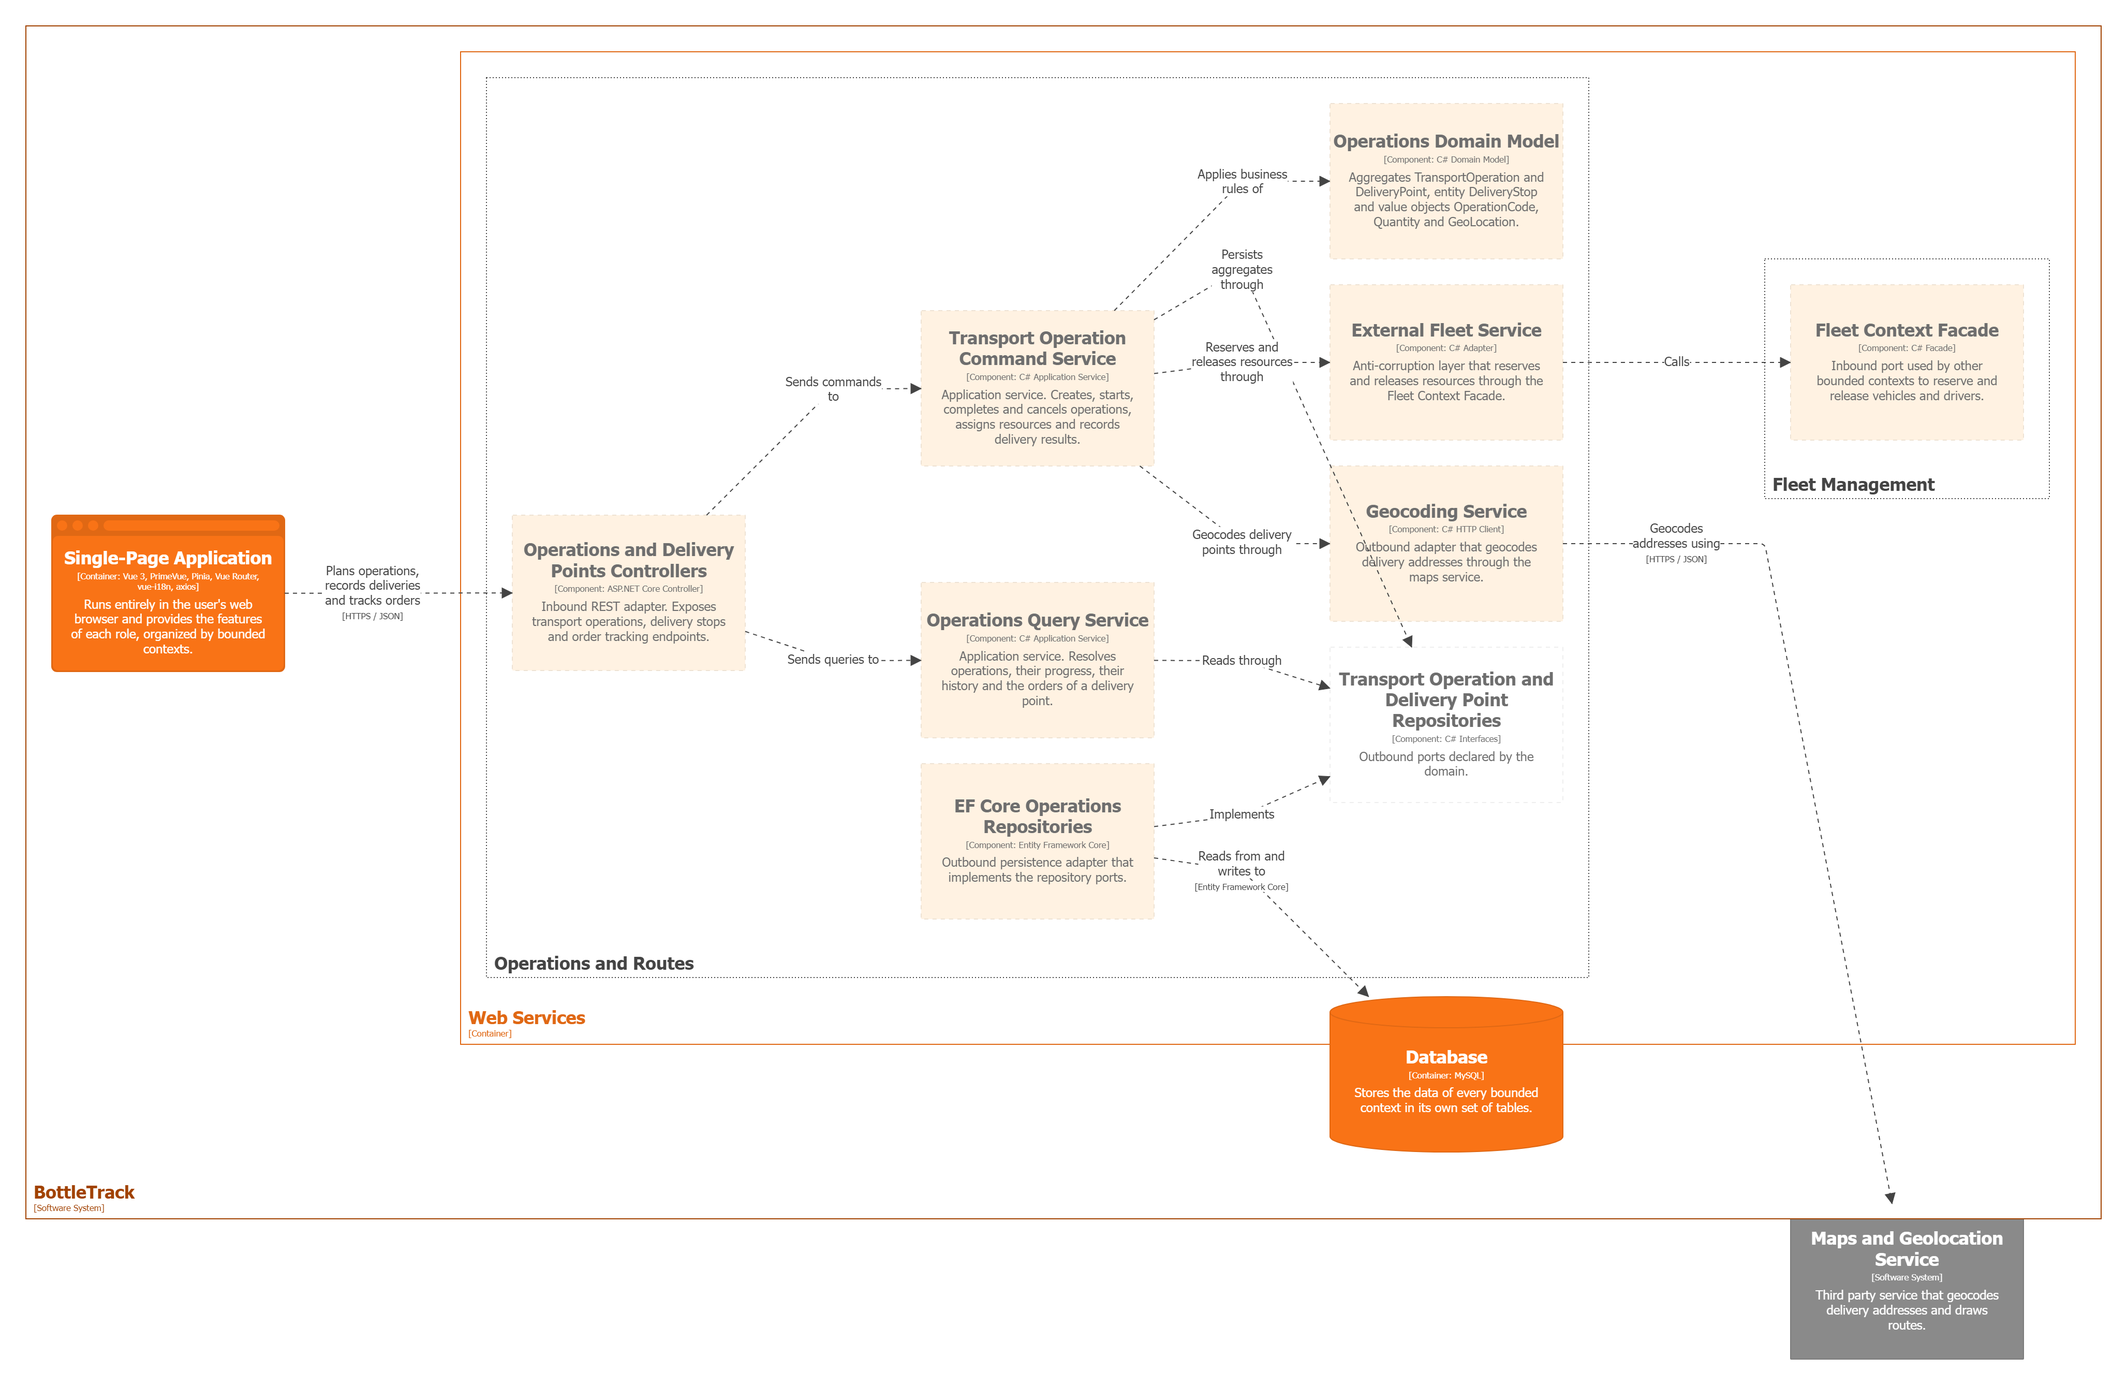
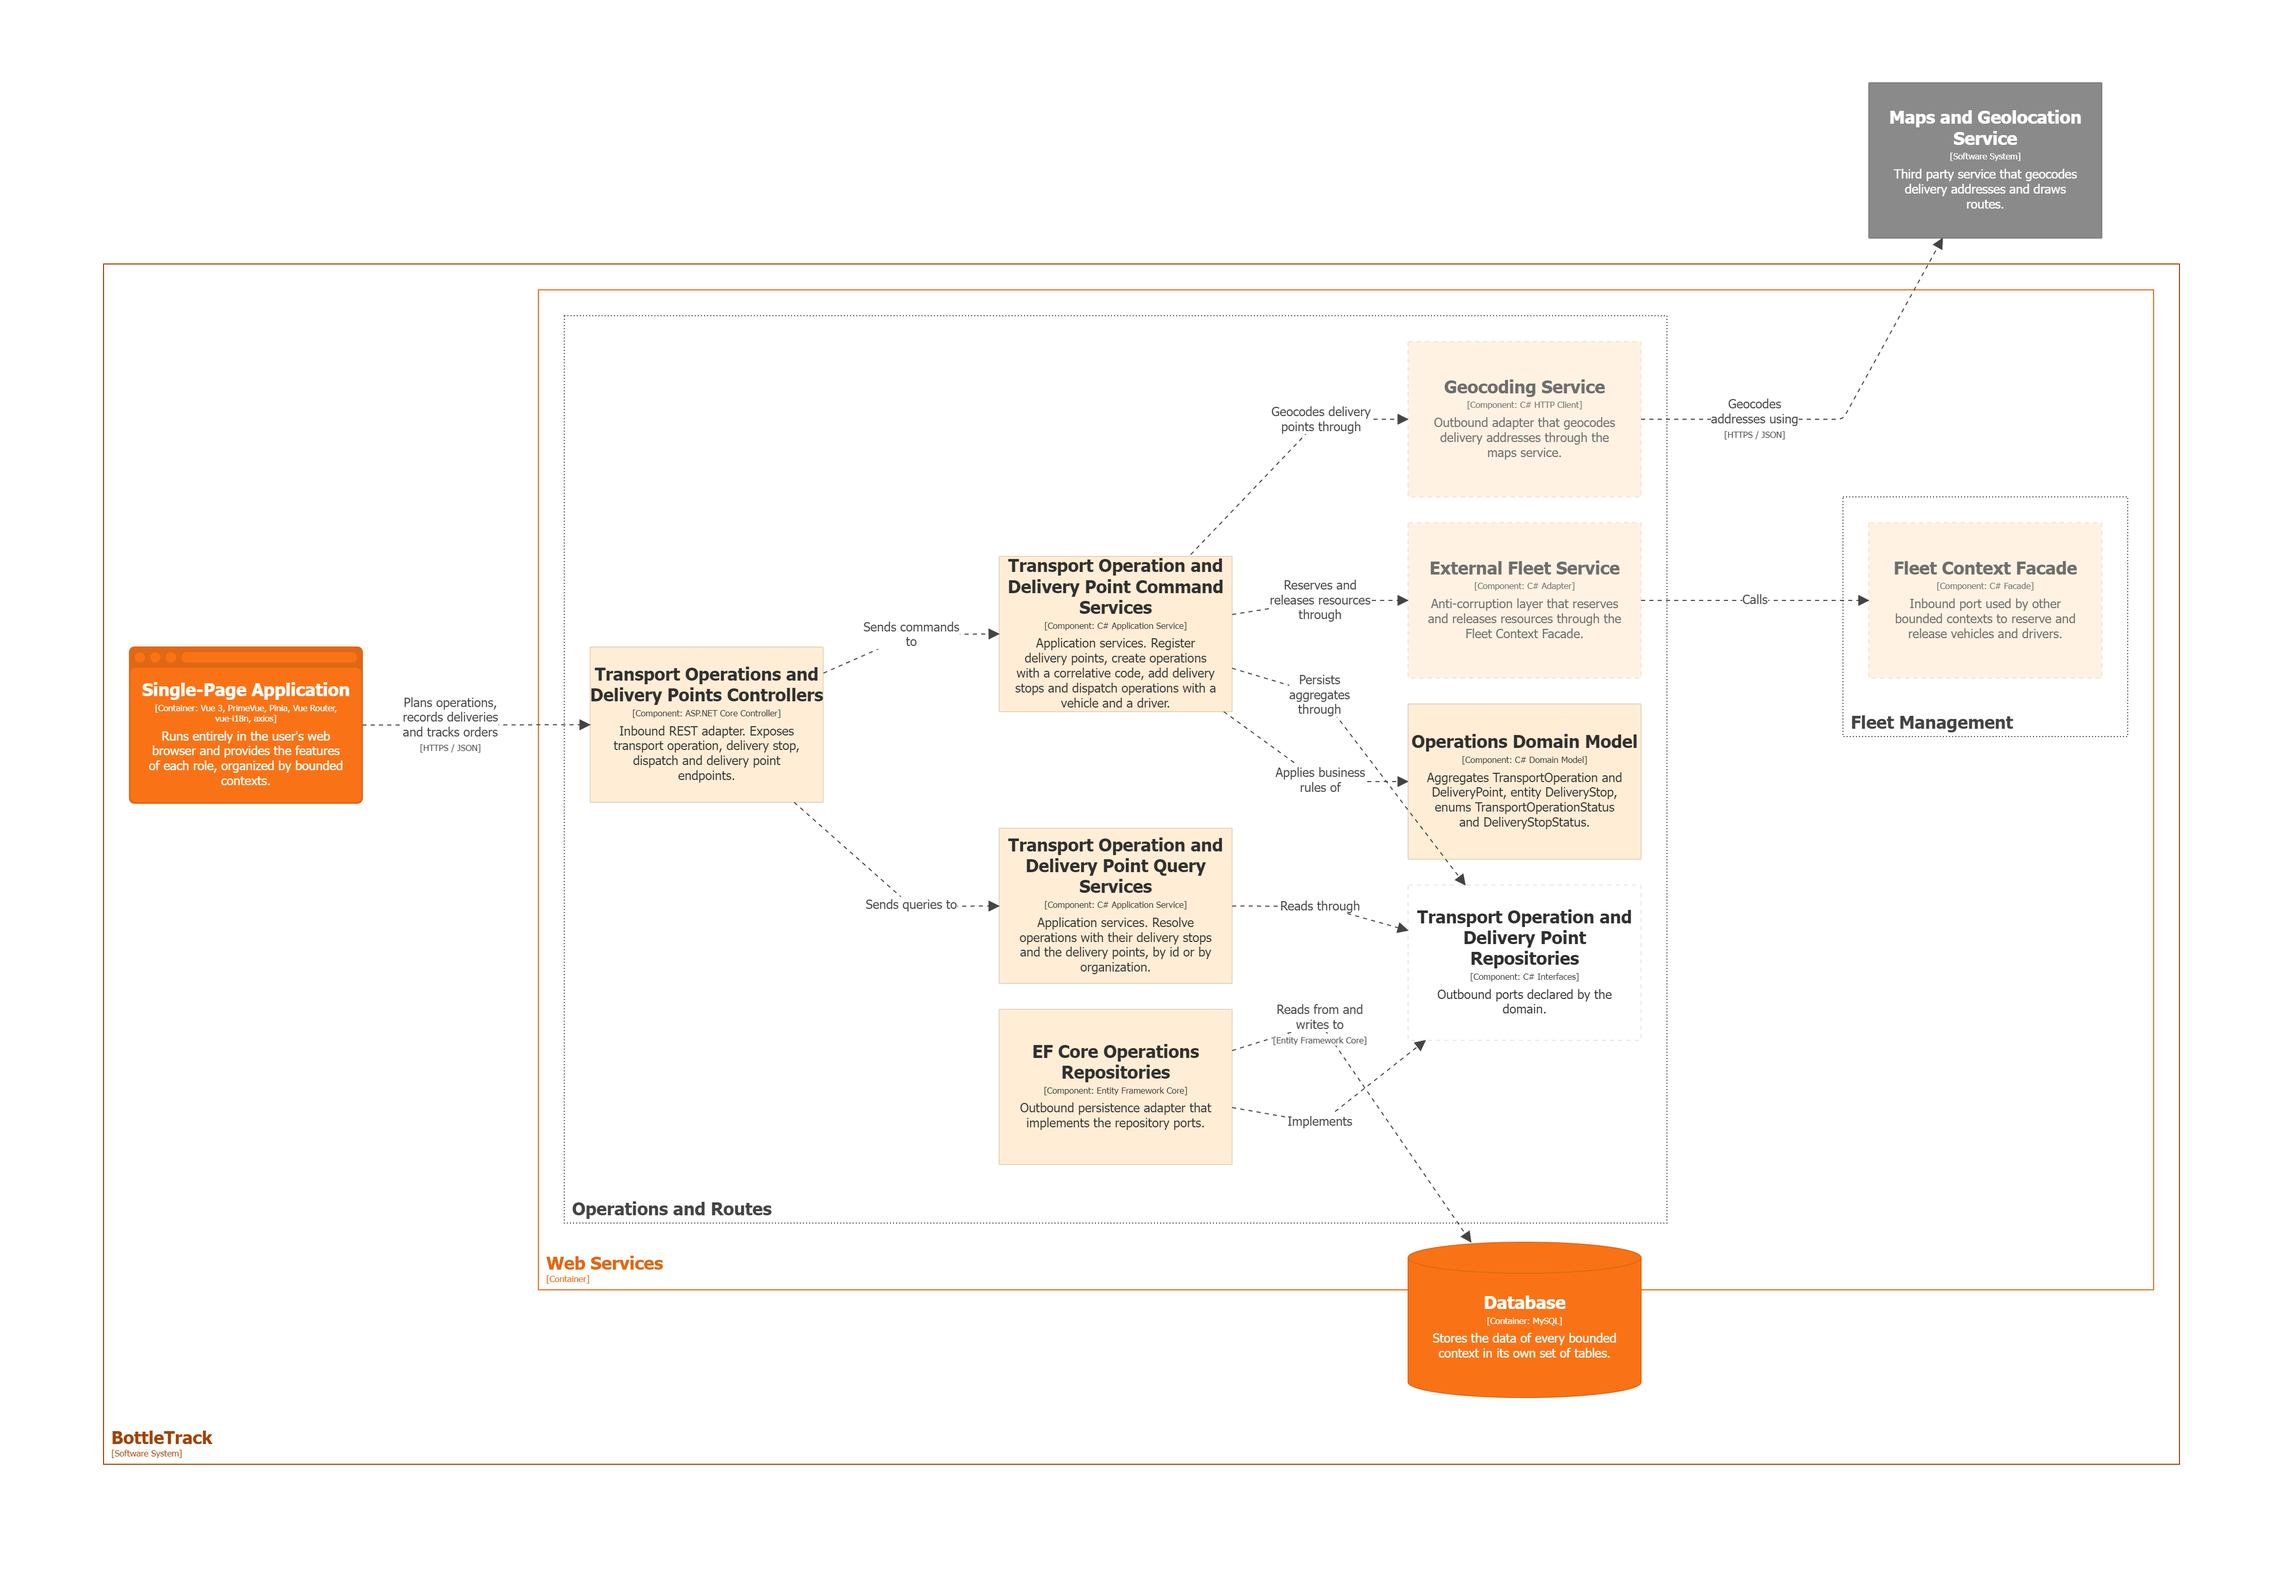
fix(report): align operations and routes diagrams with the web services

diff --git a/report/40-chapter-4-product-design.md b/report/40-chapter-4-product-design.md
@@ -756,7 +756,7 @@ Se elaboró un diagrama de componentes por bounded context. Los componentes dibu
 
 <img src="assets/DD-SoftwareArchitecture/componentFleetM_D.png" alt="Diagrama de componentes de Fleet Management" width="800">
 
-**Operations and Routes.** Es el core del dominio. Gestiona el ciclo de vida de la operación de transporte, sus puntos de entrega y el resultado de cada entrega. Su capa anticorrupción traduce las llamadas a Fleet Management y al servicio de mapas.
+**Operations and Routes.** Es el core del dominio. Gestiona el ciclo de vida de la operación de transporte, sus puntos de entrega y sus paradas. Implementado: registro y consulta de puntos de entrega, creación de operaciones con un código correlativo, agregado de paradas, despacho con un vehículo y un conductor, y consulta de las operaciones de una organización con sus paradas. La capa anticorrupción hacia Fleet Management y el adaptador de geocodificación hacia el servicio de mapas están planificados.
 
 <img src="assets/DD-SoftwareArchitecture/componentOR_D.png" alt="Diagrama de componentes de Operations and Routes" width="800">
 
@@ -828,11 +828,11 @@ Administra los vehículos y los conductores que se asignan a las operaciones de 
 
 Planifica y ejecuta las operaciones de transporte: sus recursos, su ruta de entregas y el resultado de cada entrega.
 
-*Frontend.* `TransportOperation` contiene (composición, `1` a `0..*`) a sus `DeliveryStop`, las paradas de entrega ordenadas por `sequenceNumber`. Sus getters indican qué puede hacerse en cada momento, como `canStart`, `canComplete` y `canCancel`, y calculan el avance (`progress`). `DeliveryOrder` es la vista de la bodega sobre una parada: muestra su estado de seguimiento y si ya se puede reportar un problema. Los estados salen de `OPERATION_STATUSES` y `DELIVERY_STATUSES`. Los comandos agregan una parada a una operación (`AddDeliveryStopCommand`), registran el resultado de una parada (`RecordDeliveryCommand`, que valida las cantidades y el motivo) y reportan un problema sobre un `DeliveryOrder` (`ReportReceptionProblemCommand`). Los assemblers leen esos comandos y crean las entidades. `TransportOperationsApi` y `OperationsApi` acceden al API con cinco y cuatro `BaseEndpoint`.
+*Frontend.* `TransportOperation` contiene (composición, `1` a `0..*`) a sus `DeliveryStop`, las paradas de entrega ordenadas por `sequenceNumber`. Sus getters indican qué puede hacerse en cada momento, como `canStart`, `canComplete` y `canCancel`, y calculan el avance (`progress`). `DeliveryOrder` es la vista de la bodega sobre una parada: muestra su estado de seguimiento y si ya se puede reportar un problema. Los estados salen de `OPERATION_STATUSES` y `DELIVERY_STATUSES`. Los comandos agregan una parada a una operación (`AddDeliveryStopCommand`), registran el resultado de una parada (`RecordDeliveryCommand`, que valida las cantidades y el motivo) y reportan un problema sobre un `DeliveryOrder` (`ReportReceptionProblemCommand`). Los assemblers leen esos comandos y crean las entidades. `TransportOperationsApi` y `OperationsApi` acceden al API con cuatro `BaseEndpoint` cada una.
 
 <img src="assets/Software-Object-Oriented-Design/frontend-class-operations-routes.png" alt="Diagrama de clases de Operations and Routes en el frontend" width="800">
 
-*Backend.* `TransportOperation` es la raíz del agregado y contiene entre una y muchas `DeliveryStop` (`1..*`). Toda modificación de una parada pasa por la operación, que valida las transiciones de estado con `Dispatch`, `Start`, `Complete` y `Cancel`, registra los resultados con `RecordDelivery` y calcula el avance con `CalculateProgress`. Cada parada se entrega en un `DeliveryPoint` y tiene una cantidad planificada y otra entregada, modeladas con el value object `Quantity`. Los estados están en `OperationStatus` y `DeliveryStatus`. `ITransportOperationRepository` e `IDeliveryPointRepository` definen las consultas por organización, por estado y por responsable de la bodega.
+*Backend.* `TransportOperation` es la raíz del agregado y contiene sus `DeliveryStop` (`0..*`). Toda parada se agrega a través de la operación con `AddStop`, y la operación valida sus transiciones de estado con `Dispatch` (que le asigna el vehículo y el conductor), `Complete` y `Cancel`. Cada parada se entrega en un `DeliveryPoint`, tiene un número de secuencia y guarda la cantidad planificada y la entregada en cajas. Los estados están en `TransportOperationStatus` y `DeliveryStopStatus`. `ITransportOperationRepository` obtiene una operación con sus paradas, lista las de una organización y cuenta las existentes para generar el código correlativo; `IDeliveryPointRepository` lista los puntos de entrega de una organización.
 
 <img src="assets/Software-Object-Oriented-Design/backend-class-operations-routes.png" alt="Diagrama de clases de Operations and Routes en el backend" width="800">
 
